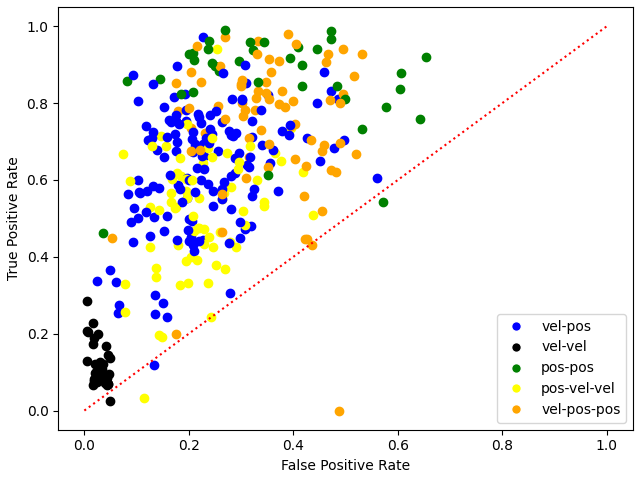
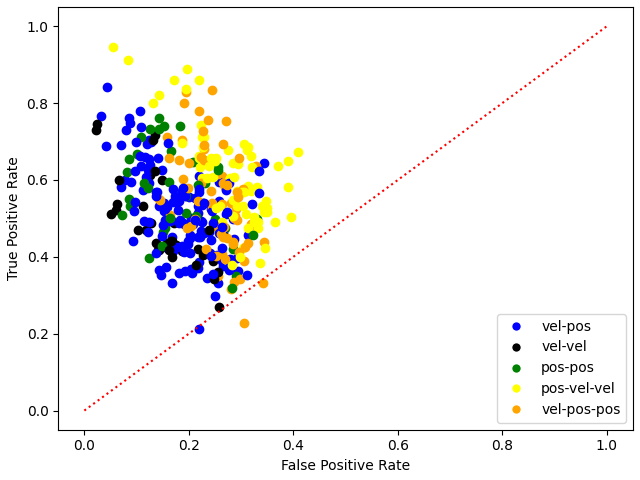
-

diff --git a/class_velocity_neuron.py b/class_velocity_neuron.py
@@ -67,7 +67,7 @@ class LIF_simple(nn.Module):
         if self.state is None:
             self.state = self.NeuronState(V=torch.full((self.n,), self.V_R, dtype=torch.float64, device=input.device),
                                           G=torch.full((self.n, self.N_input), self.G_r, device=input.device),
-                                          count_refr=torch.full((self.n,), self.refr, device=input.device),
+                                          count_refr=torch.full((self.n, self.N_input), self.refr, device=input.device),
                                           spk=torch.zeros(self.n, device=input.device),
                                           I=torch.zeros((self.n, self.N_input), device=input.device))
         V = self.state.V
@@ -76,14 +76,15 @@ class LIF_simple(nn.Module):
         I = self.state.I
 
         V += self.dt*(self.V_R-V)/self.tau
-        G += self.dt*(self.G_r-G)/self.tau_G
+        #G += self.dt*(self.G_r-G)/self.tau_G
 
         V += torch.sum(G*input, dim=1)
-        G += -G*(1-self.p)*input
-
+        #G += -G*(1-self.p)*input
         spk = activation(V - self.V_T)
-        count_refr = self.refr*spk + (1-spk)*(count_refr-1)
-        V = (1 - spk) * V * (count_refr <= 0) + spk * self.V_R + (1 - spk) * self.V_R * (count_refr > 0)
+        count_refr = self.refr*input + (1-input)*(count_refr-1)
+
+        V = (1 - spk) * V + spk * self.V_R
+        G = (1 - input) * self.G_r * (count_refr <= 0) + input * 0 + (1 - input) * 0 * (count_refr > 0)
 
         self.state = self.NeuronState(V=V, G=G, count_refr=count_refr, spk=spk, I=I)
 

diff --git a/run_regression.py b/run_regression.py
@@ -9,9 +9,9 @@ import matplotlib
 primitive_list = pickle_open('Data/primitive_list')
 data = pickle_open('Data/simulation_data')
 N_simulations = len(primitive_list)
-parameters = Parameters(t_total=6, dt=0.0001)
-tau = np.array([50e-3, 100e-3, 250e-3, 500e-3, 750e-3, 1000e-3, 1500e-3, 2000e-3, 2500e-3])
-tau = np.array([750e-3])
+parameters = Parameters(t_total=5, dt=0.0001)
+tau = np.array([100e-3, 250e-3, 500e-3, 750e-3, 1000e-3, 1500e-3, 2000e-3, 2500e-3, 3000e-3])
+#tau = np.array([2000e-3])
 
 interneuron_list, test, train = [], [], []
 for t in tqdm(tau):
@@ -37,7 +37,7 @@ for t in tqdm(tau):
     model = SGD(alpha=0.000, max_iter=10000, verbose=100)
 
     x_train, x_test, y_train, y_test = train_test_split(primitive_list, pitch_list, test_size=0.1, random_state=42)
-
+    print(x_train, y_train)
     scaler = StandardScaler()
     scaler.fit(np.vstack(primitive_list))
 
@@ -76,10 +76,10 @@ fig.savefig('Images/regression_tau', bbox_inches='tight')
 
 fig, ax = plt.subplots(figsize=(1.5*3.54, 3.54), dpi=600)
 
-plt.plot(range(y_predicted_test.size), gaussian_filter(y_predicted_test), color='blue')
+plt.plot(range(y_predicted_test.size), y_predicted_test, color='blue')
 plt.plot(range(y_predicted_test.size), y_test, color='red')
 ax.set_xlabel('tau (ms)', fontsize=15)
-ax.set_ylabel('accuracy', fontsize=15)
+ax.set_ylabel('Body Pitch', fontsize=15)
 ax.legend(['prediction', 'ground truth'])
 
 fig.savefig('Images/regression_test', bbox_inches='tight')

diff --git a/dictionaries.py b/dictionaries.py
@@ -14,12 +14,12 @@ class Parameters:
                         'tau_W': 533e-3, 'b': 8e-12, 'V_R': -70e-3, 'V_cut': -40e-3, 'refrac': 0.00,
                         'n': 2 * n_hairs * n_angles, 'dt': dt}
 
-        self.position = {'E_L': -70e-3, 'V_T': -50e-3, 'tau': 50e-3, 'tau_W': 25e-3, 'tau_epsp': 6e-3, 'b': 10e-3,
+        self.position = {'E_L': -70e-3, 'V_T': -50e-3, 'tau': 50e-3, 'tau_W': 25e-3, 'tau_epsp': 6e-3, 'b': 1e-3,
                          'V_R': -70e-3, 'n': 2 * n_angles, 'N_input': int(n_hairs/2) + 1, 'dt': dt, 'refrac': 0}
 
         self.velocity = {'tau': 2e-3, 'tau_G': 100e-3, 'G_r': 25e-3, 'p': 0.1, 'V_T': -50e-3,
                                       'V_R': -70e-3, 'n': 2 * n_angles, 'N_input': n_hairs,
-                                      'dt': dt, 'refrac': 0}
+                                      'dt': dt, 'refrac': 0.03}
 
         self.primitive = {'tau': 50e-3, 'V_T': -50e-3, 'V_R': -70e-3, 'n': 360, 'w': 0,
                           'N_input': 3, 'dt': dt, 'refrac': 0}

diff --git a/run_full_network.py b/run_full_network.py
@@ -7,7 +7,7 @@ from class_hair_field import HairField
 from plots import *
 from functions import *
 
-N_simulations = 1
+N_simulations = 10
 w_pos = [14e-3, 0, 12e-3, 10e-3, 7.5e-3]
 #w_pos = [200e-3, 0, 200e-3, 200e-3, 200-3]
 w_vel = [12e-3, 14.5e-3, 0, 11e-3, 12e-3]
@@ -21,7 +21,7 @@ for k in tqdm(range(N_simulations), desc='Network progress'):
     joint_angles = np.array(data[f'simulation_{k}'][0]).T
 
     parameters = Parameters(max_joint_angle=np.amax(joint_angles, axis=0), min_joint_angle=np.amin(joint_angles, axis=0),
-                            n_hairs=20, t_total=5, dt=0.001, n_angles=18)
+                            n_hairs=100, t_total=5, dt=0.001, n_angles=18)
     parameters.primitive['w'] = weights_primitive
 
     N_frames = parameters.general['N_frames']

diff --git a/file_importer.py b/file_importer.py
@@ -1,9 +1,14 @@
 import scipy.io
 from functions import *
 
+desktop = False
 if os.name == 'nt':
-    path = "C:\DOCUMENTEN\RUG\Master\Master Research Project\Kinematic_Data"
-    print("Windows path used")
+    if desktop:
+        path = "C:\DOCUMENTEN\RUG\Master\Master Research Project\Kinematic_Data"
+        print("Windows desktop path used")
+    else:
+        path = r"C:\Users\thoma\Documents\RUG\Master Project\Kinematic_Data"
+        print("Windows laptop path used")
 else:
     path = "/home/s3488926/Documents/master_project/drive/Kinematic_Data"
     print("Linux path used")

diff --git a/run_primitive_optimization.py b/run_primitive_optimization.py
@@ -14,8 +14,8 @@ N_simulations = len(velocity_list)
 N_simulations = 1
 permutations = get_primitive_indexes(6)
 
-tau_list = np.linspace(4e-3, 25e-3, num=4)
-n_w = 10
+tau_list = np.linspace(0e-3, 8e-3, num=5)
+n_w = 8
 w_1 = np.linspace(0e-3, 20e-3, num=n_w)
 w_2 = np.linspace(0e-3, 20e-3, num=n_w)
 w_1_opt, w_2_opt, accuracy_opt = \
